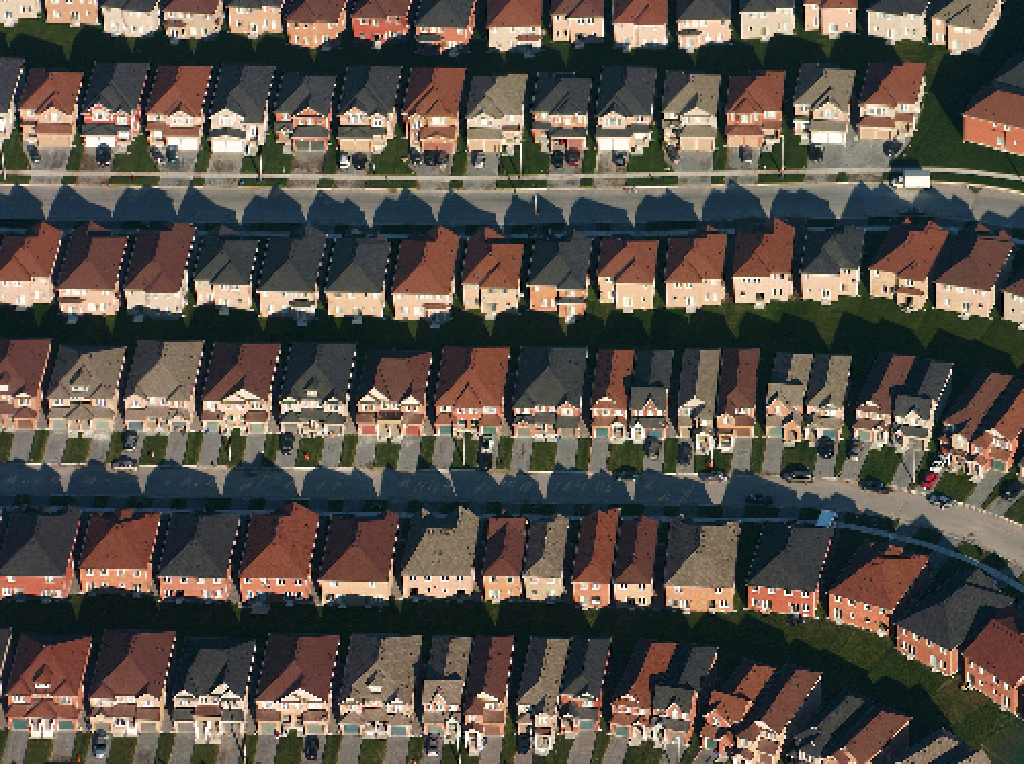
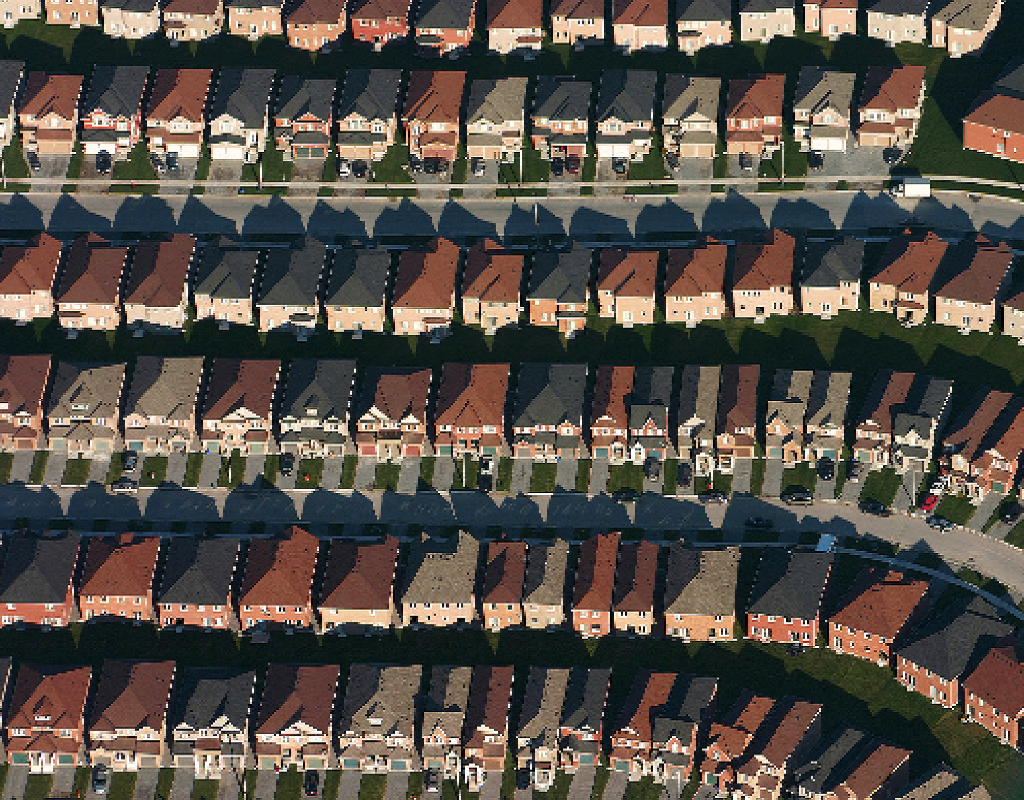
options rough

diff --git a/Options.cpp b/Options.cpp
@@ -15,7 +15,7 @@ namespace options {
     int Options::show() {
         this->window.clear();
         sf::Texture splash;
-        if(!splash.loadFromFile("./images/neighborhood.png")){
+        if(!splash.loadFromFile("./images/House.png")){
             std::cerr << "Can't load start image." << std::endl;
         }
         sf::Sprite sprite;
@@ -31,14 +31,49 @@ namespace options {
         title.setString("Options");
         title.setCharacterSize(48);
         title.setFillColor(sf::Color::White);
-        title.setPosition(250,10);
+        title.setPosition(260,10);
 
-        sf::Text text;
-        text.setFont(font);
-        text.setString("(Press Enter to continue)");
-        text.setCharacterSize(24);
-        text.setFillColor(sf::Color::White);
-        text.setPosition(150, 350);
+        sf::Text highScore;
+        highScore.setFont(font);
+        highScore.setString("S: High Scores");
+        highScore.setCharacterSize(24);
+        highScore.setFillColor(sf::Color::White);
+        highScore.setPosition(100, 100);
+
+        sf::Text credits;
+        credits.setFont(font);
+        credits.setString("C: Credits");
+        credits.setCharacterSize(24);
+        credits.setFillColor(sf::Color::White);
+        credits.setPosition(100, 150);
+
+        sf::Text help;
+        help.setFont(font);
+        help.setString("H: Help");
+        help.setCharacterSize(24);
+        help.setFillColor(sf::Color::White);
+        help.setPosition(100, 200);
+
+        sf::Text sound;
+        sound.setFont(font);
+        sound.setString("- & +: Music volume");
+        sound.setCharacterSize(24);
+        sound.setFillColor(sf::Color::White);
+        sound.setPosition(100, 250);
+
+        sf::Text sfx;
+        sfx.setFont(font);
+        sfx.setString("< & >: SoundFX volume");
+        sfx.setCharacterSize(24);
+        sfx.setFillColor(sf::Color::White);
+        sfx.setPosition(100, 300);
+
+        sf::Text menu;
+        menu.setFont(font);
+        menu.setString("M: Main Menu");
+        menu.setCharacterSize(24);
+        menu.setFillColor(sf::Color::White);
+        menu.setPosition(100, 500);
 
         sf::Clock clock;
 
@@ -60,9 +95,8 @@ namespace options {
                 }
 
                 if(event.type == sf::Event::KeyPressed){
-                    if(event.key.code == sf::Keyboard::Return){
+                    if(event.key.code == sf::Keyboard::M){
                         window.clear();
-                        music.stop();
                         return 0;
                     }
                 }
@@ -71,7 +105,13 @@ namespace options {
 
             window.draw(sprite);
             window.draw(title);
-            window.draw(text);
+            window.draw(highScore);
+            window.draw(credits);
+            window.draw(help);
+            window.draw(sound);
+            window.draw(sfx);
+
+            window.draw(menu);
             window.display();
         }
         return 0;
